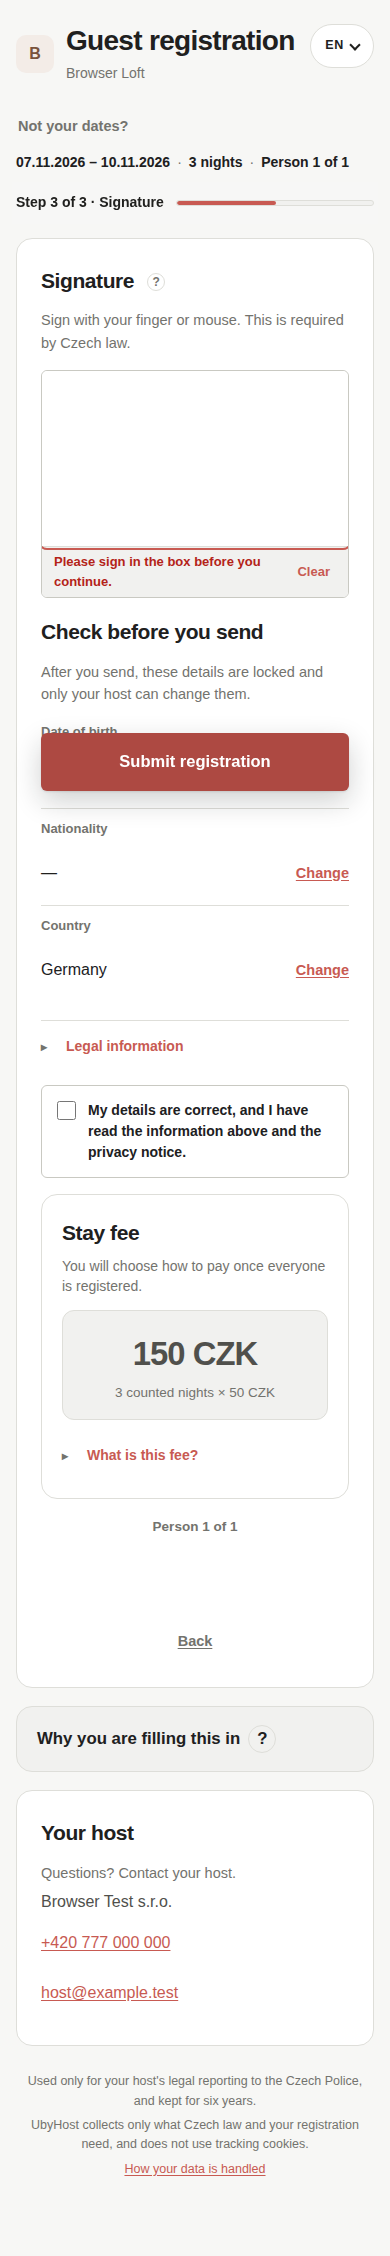
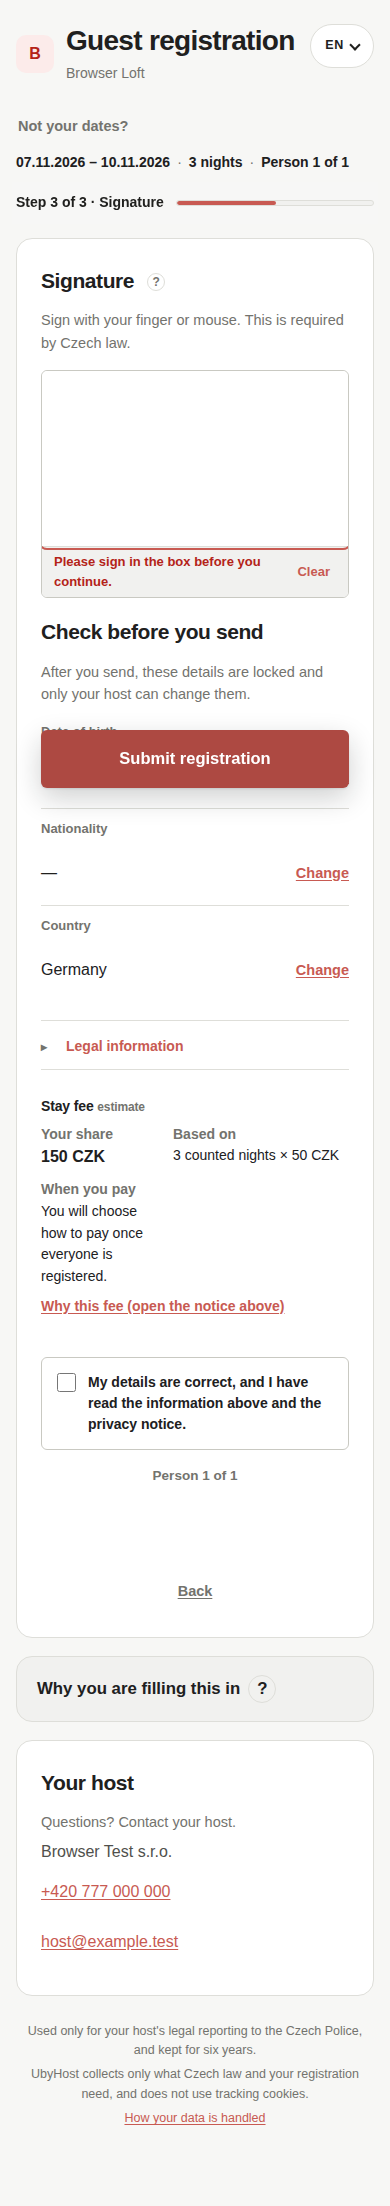
Unify guest fee estimate with legal notice and polish hub fee
Move the stay-fee estimate into #legal-notice as fact rows (estimate badge,
amount, basis, payment timing) with a jump link into the existing fee law
section. Remove the separate pay-style card and duplicate legal fold. Hub fee
card keeps g-summary legal fold; lock setup dedup and property-section grid
fixes remain. Add i18n row labels, signature.js fee jump, and screenshots.

diff --git a/App/app/static/guest.css b/App/app/static/guest.css
@@ -1604,43 +1604,49 @@ details.g-summary > .g-summary-body { padding: 16px 20px 18px; }
 .g-fee-qr .g-summary-list { flex: 1 1 180px; min-width: 0; }
 .g-fee-payee { margin: 8px 0 0; }
 
-/* Form stay-fee estimate: quiet panel + legal fold aligned with .g-legal-text */
-.g-fee-estimate { padding: 22px 20px 20px; }
-.g-fee-estimate-head { margin-bottom: 14px; }
-.g-fee-estimate-head h2 { margin-bottom: 6px; }
-.g-fee-estimate-kicker {
-  margin: 0;
-  font-size: 14px;
-  line-height: 1.45;
-  color: var(--g-muted);
-}
-.g-fee-estimate-panel {
-  box-sizing: border-box;
-  padding: 18px 16px 16px;
-  border: 1px solid var(--g-line);
-  border-radius: 12px;
-  background: var(--g-surface-2, #f6f6f4);
-  text-align: center;
-}
-.g-fee-estimate-panel .g-fee-amount {
+/* Form stay-fee estimate sits inside #legal-notice (not a pay card). */
+.g-fee-estimate-inline {
   margin: 0 0 4px;
-  font-size: 2.05rem;
-  letter-spacing: -0.03em;
+  padding: 14px 0 16px;
+  border-top: 1px solid var(--g-line);
 }
-.g-fee-estimate-meta {
+.g-fee-estimate-inline-title {
+  margin: 0 0 10px;
+  font-size: 15px;
+  font-weight: 700;
+  color: var(--g-ink);
+  letter-spacing: -0.01em;
+}
+.g-fee-estimate-badge {
+  font-size: 12px;
+  font-weight: 650;
+  color: var(--g-muted);
+  text-transform: lowercase;
+}
+.g-fee-estimate-facts {
+  margin: 0 0 8px;
+  font-size: 14px;
+}
+.g-fee-estimate-facts dd strong {
+  font-size: 16px;
+  font-weight: 700;
+  color: var(--g-ink);
+}
+.g-fee-estimate-legal-ref {
   margin: 0;
   font-size: 13.5px;
-  line-height: 1.4;
-  color: var(--g-muted);
 }
-.g-fee-estimate-legal { margin-top: 14px; }
-.g-fee-estimate-legal > summary {
-  margin-top: 0;
+.g-legal-fee-jump {
+  color: var(--g-accent);
+  font-weight: 650;
+  text-decoration: underline;
+  text-underline-offset: 2px;
+}
+.g-legal-notice:has(.g-fee-estimate-inline) .g-legal-text > summary {
   border-top: 0;
+  margin-top: 0;
   padding-top: 0;
 }
-.g-fee-estimate-legal .g-intro { font-size: 14px; margin-bottom: 12px; }
-.g-fee-estimate-legal .g-law { margin: 0; font-size: 13.5px; }
 /* Hub stay-fee card */
 #fee-pay .g-fee-amount { margin-bottom: 4px; }
 #fee-pay details.g-summary.g-fee-legal-fold { margin-top: 12px; }

diff --git a/App/app/static/signature.js b/App/app/static/signature.js
@@ -426,6 +426,26 @@ function initSignature() {
     });
   }
 
+
+  function initLegalFeeJump() {
+    document.querySelectorAll("[data-legal-fee-jump]").forEach(function (link) {
+      link.addEventListener("click", function (event) {
+        var card = link.closest("#legal-notice");
+        if (!card) return;
+        var details = card.querySelector("details.g-legal-text");
+        var target = card.querySelector("#legal-fee-section");
+        if (!details || !target) return;
+        event.preventDefault();
+        details.open = true;
+        target.scrollIntoView({ block: "nearest", behavior: "smooth" });
+        if (typeof target.focus === "function") {
+          if (!target.hasAttribute("tabindex")) target.setAttribute("tabindex", "-1");
+          target.focus({ preventScroll: true });
+        }
+      });
+    });
+  }
+
   function focusFirstError() {
     var first = document.querySelector(".g-field .bad, .g-sign .err:not(:empty)");
     if (!first) return;
@@ -745,6 +765,7 @@ function initSignature() {
     initErrorSummary();
     initGuestReview();
     initLegalAck();
+    initLegalFeeJump();
     focusFirstError();
   });
 })();

diff --git a/App/app/templates/guest/base.html b/App/app/templates/guest/base.html
@@ -11,7 +11,7 @@
   <link rel="icon" type="image/png" sizes="64x64" href="/static/favicon.png?v=20261004a">
   <link rel="apple-touch-icon" sizes="180x180" href="/static/apple-touch-icon.png?v=20261004a">
   <link rel="stylesheet" href="/static/tokens.css?v=20261022-0284">
-  <link rel="stylesheet" href="/static/guest.css?v=20261107-fee-form-v2">
+  <link rel="stylesheet" href="/static/guest.css?v=20261107-fee-legal-merge">
   <link rel="stylesheet" href="/static/skeleton.css?v=20261014-0102c">
 </head>
 <body>
@@ -74,7 +74,7 @@
 <script src="/static/skeleton.js?v=20261102-0509"></script>
 {# WP07: signature.js (signature pad, wizard, date of birth, PIN return) runs
    only on the form and the PIN page; those set load_signature_js. #}
-{% if load_signature_js %}<script src="/static/signature.js?v=20261106-0977"></script>{% endif %}
+{% if load_signature_js %}<script src="/static/signature.js?v=20261107-fee-legal-merge"></script>{% endif %}
 <script src="/static/guest-enhancements.js?v=20261003a"></script>
 <script src="/static/csrf.js?v=20260915a"></script>
 {% if leon_url %}<script src="/static/guest-leon.js?v=20261025-0393b"></script>{% endif %}

diff --git a/App/app/templates/guest/_fee_estimate_inline.html b/App/app/templates/guest/_fee_estimate_inline.html
@@ -1,0 +1,24 @@
+{# Brief 0910: estimate lives inside #legal-notice, not a separate payment card. #}
+{% set fee_amount = t('fee_amount', amount=fee_estimate.amount) %}
+<div class="g-fee-estimate-inline" id="fee-estimate">
+  <h3 class="g-fee-estimate-inline-title">{{ t('fee_estimate_title') }} <span class="g-fee-estimate-badge">{{ t('fee_estimate_badge') }}</span></h3>
+  <dl class="g-summary-list g-fee-estimate-facts">
+    <div>
+      <dt>{{ t('fee_estimate_row_amount') }}</dt>
+      <dd><strong>{{ fee_amount }}</strong></dd>
+    </div>
+    <div>
+      <dt>{{ t('fee_estimate_row_basis') }}</dt>
+      <dd>{{ t('fee_estimate_nights', days=fee_estimate.days, rate=fee_estimate.rate) }}</dd>
+    </div>
+    <div>
+      <dt>{{ t('fee_estimate_row_payment') }}</dt>
+      <dd>{{ t('fee_estimate_when') }}</dd>
+    </div>
+  </dl>
+  {% if fee_notice %}
+    <p class="g-fee-estimate-legal-ref g-intro">
+      <a href="#legal-fee-section" class="g-legal-fee-jump" data-legal-fee-jump>{{ t('fee_estimate_see_law') }}</a>
+    </p>
+  {% endif %}
+</div>

diff --git a/App/app/templates/guest/_legal_notice.html b/App/app/templates/guest/_legal_notice.html
@@ -35,6 +35,8 @@
     {% endif %}
   </details>
 
+  {% if fee_estimate %}{% include "guest/_fee_estimate_inline.html" %}{% endif %}
+
   <div class="g-field legal-ack">
     <label class="checkline" for="legal_ack">
       <input type="checkbox" id="legal_ack" name="legal_ack" value="1" required

diff --git a/App/app/templates/_signature_script.html b/App/app/templates/_signature_script.html
@@ -1,2 +1,2 @@
 {#- 0139: signature.js for the host guest page; a page on host_page may not carry a script tag (design lint T1). -#}
-<script src="/static/signature.js?v=20261106-0977"></script>
+<script src="/static/signature.js?v=20261107-fee-legal-merge"></script>

diff --git a/App/app/templates/guest/form.html b/App/app/templates/guest/form.html
@@ -309,7 +309,6 @@
 
     {% include "guest/_legal_notice.html" %}
 
-    {% if fee_estimate %}{% include "guest/_fee_estimate.html" %}{% endif %}
     {% if fee_panel %}{% include "guest/_fee_pay.html" %}{% endif %}
 
     {% if person_number and expected_people %}

diff --git a/App/app/i18n.py b/App/app/i18n.py
@@ -352,6 +352,11 @@ STRINGS: Dict[str, Dict[str, str]] = {
         "fee_estimate_body": "%(amount)s for you (%(days)s counted nights × %(rate)s CZK). You will choose how to pay once everyone is registered.",
         "fee_estimate_nights": "%(days)s counted nights × %(rate)s CZK",
         "fee_estimate_when": "You will choose how to pay once everyone is registered.",
+        "fee_estimate_badge": "estimate",
+        "fee_estimate_row_amount": "Your share",
+        "fee_estimate_row_basis": "Based on",
+        "fee_estimate_row_payment": "When you pay",
+        "fee_estimate_see_law": "Why this fee (open the notice above)",
         "fee_no_rails": "Your host has not finished setting up payment yet. Please contact them.",
         "res_country": "Country",
         "purpose": "Purpose of stay",
@@ -1075,6 +1080,11 @@ STRINGS: Dict[str, Dict[str, str]] = {
         "fee_estimate_body": "Pro vás %(amount)s (%(days)s započitatelných nocí × %(rate)s Kč). Způsob platby si vyberete, až budou zaregistrovaní všichni hosté.",
         "fee_estimate_nights": "%(days)s započitatelných nocí × %(rate)s Kč",
         "fee_estimate_when": "Způsob platby si vyberete, až budou zaregistrovaní všichni hosté.",
+        "fee_estimate_badge": "odhad",
+        "fee_estimate_row_amount": "Za vás",
+        "fee_estimate_row_basis": "Podle",
+        "fee_estimate_row_payment": "Kdy platíte",
+        "fee_estimate_see_law": "Proč tento poplatek (v právním oznámení)",
         "fee_no_rails": "Hostitel ještě nedokončil nastavení plateb. Kontaktujte ho prosím.",
         "res_country": "Stát",
         "purpose": "Účel pobytu",
@@ -1755,6 +1765,11 @@ STRINGS: Dict[str, Dict[str, str]] = {
         "fee_estimate_body": "Für Sie %(amount)s (%(days)s angerechnete Nächte × %(rate)s CZK). Die Zahlungsart wählen Sie, sobald alle Gäste registriert sind.",
         "fee_estimate_nights": "%(days)s angerechnete Nächte × %(rate)s CZK",
         "fee_estimate_when": "Die Zahlungsart wählen Sie, sobald alle Gäste registriert sind.",
+        "fee_estimate_badge": "Schätzung",
+        "fee_estimate_row_amount": "Für Sie",
+        "fee_estimate_row_basis": "Berechnet aus",
+        "fee_estimate_row_payment": "Wann Sie zahlen",
+        "fee_estimate_see_law": "Warum diese Abgabe (im Rechtshinweis)",
         "fee_no_rails": "Ihr Gastgeber hat die Zahlung noch nicht eingerichtet. Bitte kontaktieren Sie ihn.",
         "res_country": "Land",
         "purpose": "Aufenthaltszweck",
@@ -2253,6 +2268,11 @@ STRINGS: Dict[str, Dict[str, str]] = {
         "fee_estimate_body": "Para usted, %(amount)s (%(days)s noches computables × %(rate)s CZK). Elegirá cómo pagar cuando todos estén registrados.",
         "fee_estimate_nights": "%(days)s noches computables × %(rate)s CZK",
         "fee_estimate_when": "Elegirá cómo pagar cuando todos estén registrados.",
+        "fee_estimate_badge": "estimación",
+        "fee_estimate_row_amount": "Para usted",
+        "fee_estimate_row_basis": "Según",
+        "fee_estimate_row_payment": "Cuándo paga",
+        "fee_estimate_see_law": "Por qué esta tasa (en el aviso legal)",
         "fee_no_rails": "Su anfitrión aún no ha configurado el pago. Contáctele.",
         "res_country": "País",
         "purpose": "Motivo de la estancia",
@@ -2751,6 +2771,11 @@ STRINGS: Dict[str, Dict[str, str]] = {
         "fee_estimate_body": "Pour vous, %(amount)s (%(days)s nuits comptées × %(rate)s CZK). Vous choisirez comment payer quand tous les invités seront enregistrés.",
         "fee_estimate_nights": "%(days)s nuits comptées × %(rate)s CZK",
         "fee_estimate_when": "Vous choisirez comment payer quand tous les invités seront enregistrés.",
+        "fee_estimate_badge": "estimation",
+        "fee_estimate_row_amount": "Pour vous",
+        "fee_estimate_row_basis": "Calcul",
+        "fee_estimate_row_payment": "Quand vous payez",
+        "fee_estimate_see_law": "Pourquoi cette taxe (dans l’avis juridique)",
         "fee_no_rails": "Votre hôte n'a pas encore configuré le paiement. Contactez-le.",
         "res_country": "Pays",
         "purpose": "Motif du séjour",

diff --git a/App/app/guest_uk_i18n.py b/App/app/guest_uk_i18n.py
@@ -316,6 +316,11 @@ STRINGS: Dict[str, str] = {
     "fee_estimate_body": "Для вас %(amount)s (%(days)s врахованих ночей × %(rate)s CZK). Спосіб оплати оберете, коли зареєструються всі гості.",
     "fee_estimate_nights": "%(days)s врахованих ночей × %(rate)s CZK",
     "fee_estimate_when": "Спосіб оплати оберете, коли зареєструються всі гості.",
+    "fee_estimate_badge": "орієнтовно",
+    "fee_estimate_row_amount": "За вас",
+    "fee_estimate_row_basis": "За",
+    "fee_estimate_row_payment": "Коли платите",
+    "fee_estimate_see_law": "Чому цей збір (у повідомленні вище)",
     "res_country": "Країна",
     "purpose": "Мета перебування",
     "stay_dates": "Ваші дати",
